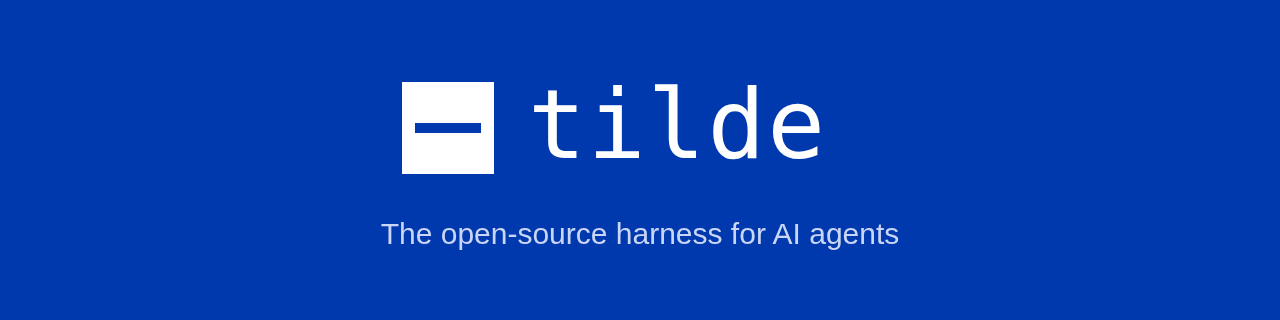
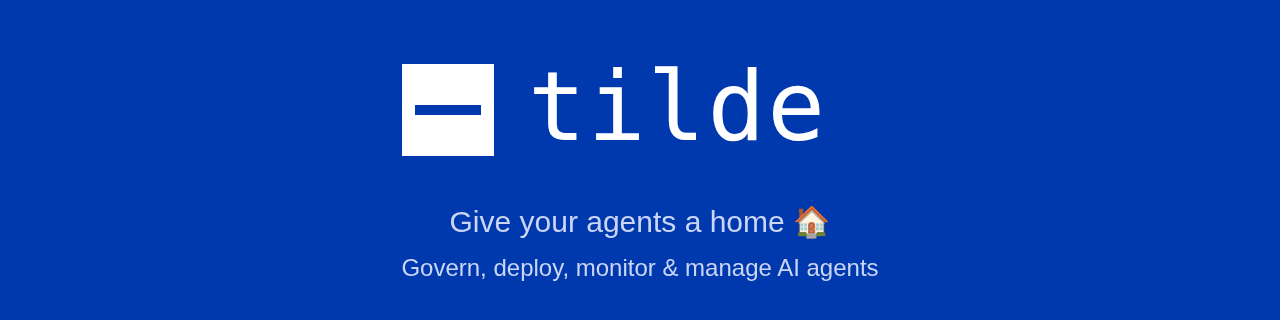
Pitch Tilde as the open-source agent registry for AI-native enterprises

diff --git a/README.md b/README.md
@@ -13,9 +13,9 @@
   <a href="https://trytilde.ai/docs">Docs</a> - <a href="https://discord.gg/a9eUdFZca">Community</a> - <a href="https://trytilde.ai/why-tilde">Why Tilde?</a> - <a href="https://github.com/trytilde/tilde/blob/main/CHANGELOG.md">Changelog</a> - <a href="https://github.com/trytilde/tilde/issues/new">Bug reports</a>
 </p>
 
-## Tilde is the open-source harness for AI agents
+## Tilde is the open-source agent registry for AI-native enterprises
 
-[Tilde](https://trytilde.ai) runs everything around your agents, so the agents themselves can be written in any language or framework. Your agent connects to the Tilde gateway through our SDKs, and Tilde handles the rest:
+[Tilde](https://trytilde.ai) gives your agents a home. Register every agent your company builds, in any language or framework, and govern, deploy, monitor and manage them from one place. Your agent connects to the Tilde gateway through our SDKs, and Tilde handles the rest:
 
 - [Agent registry](https://trytilde.ai/docs/agent-registry): Register agents built in any framework, deploy them, check their health, and pause or retire them from one place.
 - [Chat channels](https://trytilde.ai/docs/chat-channels): Route messages from Slack, WhatsApp, email, SMS and iMessage, GitHub, and your own apps to agents, with sessions, identities, and access control.
@@ -31,7 +31,7 @@ Get started with [Tilde Cloud](https://trytilde.ai), or run it yourself from thi
 
 ## Table of contents
 
-- [Tilde is the open-source harness for AI agents](#tilde-is-the-open-source-harness-for-ai-agents)
+- [Tilde is the open-source agent registry for AI-native enterprises](#tilde-is-the-open-source-agent-registry-for-ai-native-enterprises)
 - [Table of contents](#table-of-contents)
 - [Getting started with Tilde](#getting-started-with-tilde)
   - [Tilde Cloud (recommended)](#tilde-cloud-recommended)

diff --git a/docs/architecture.md b/docs/architecture.md
@@ -1,6 +1,6 @@
 # Architecture
 
-Tilde is a harness for AI agents. It runs everything around an agent: the registry,
+Tilde is an agent registry for AI-native enterprises. It runs everything around an agent: the registry,
 chat channels, credentials, tools, model access, prompts, skills and telemetry. Agents
 are written in any language or framework and connect to Tilde through an SDK
 (`sdk/ts`, `sdk/py`).
